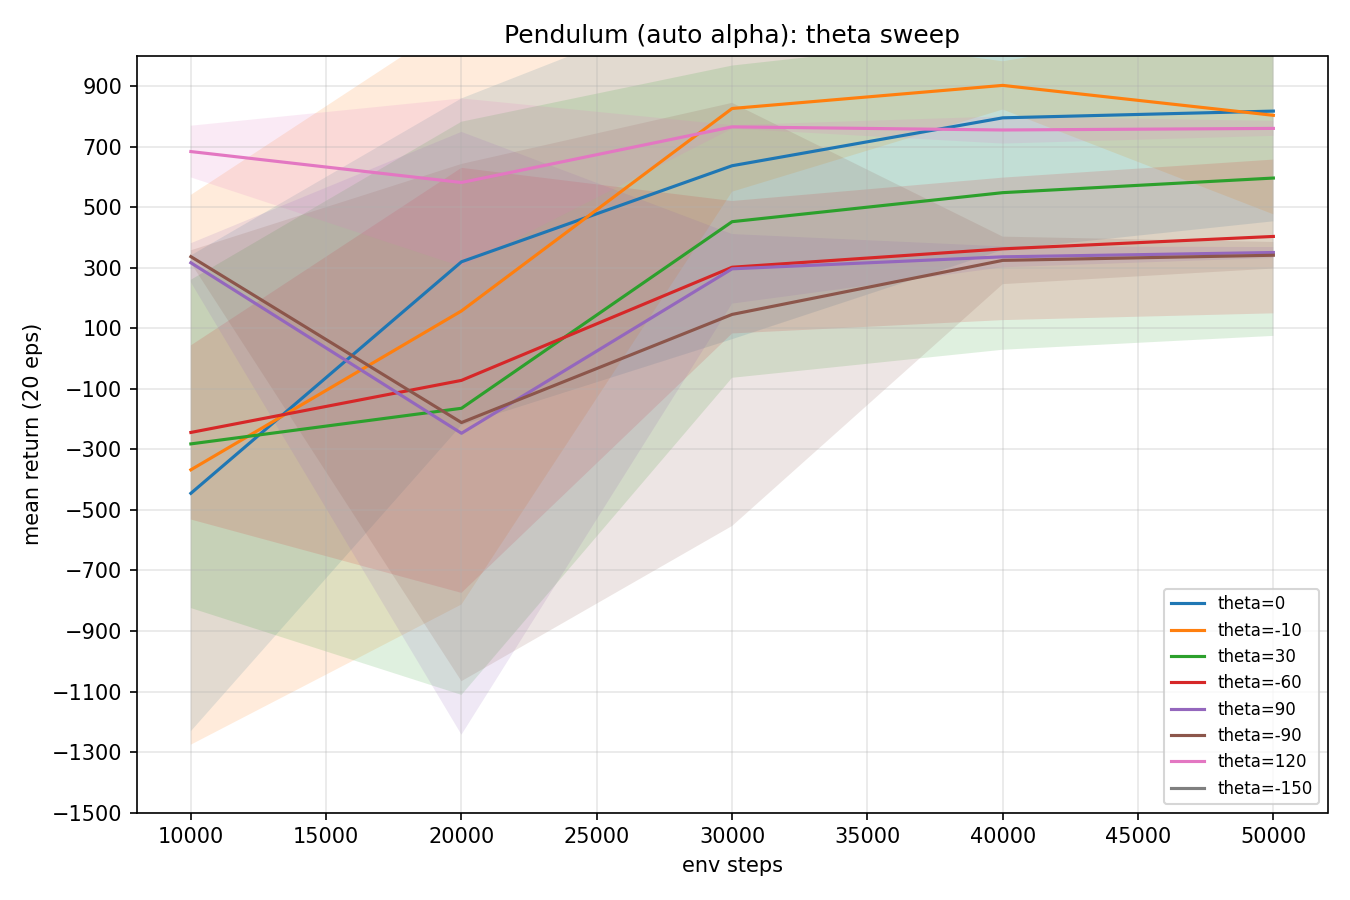
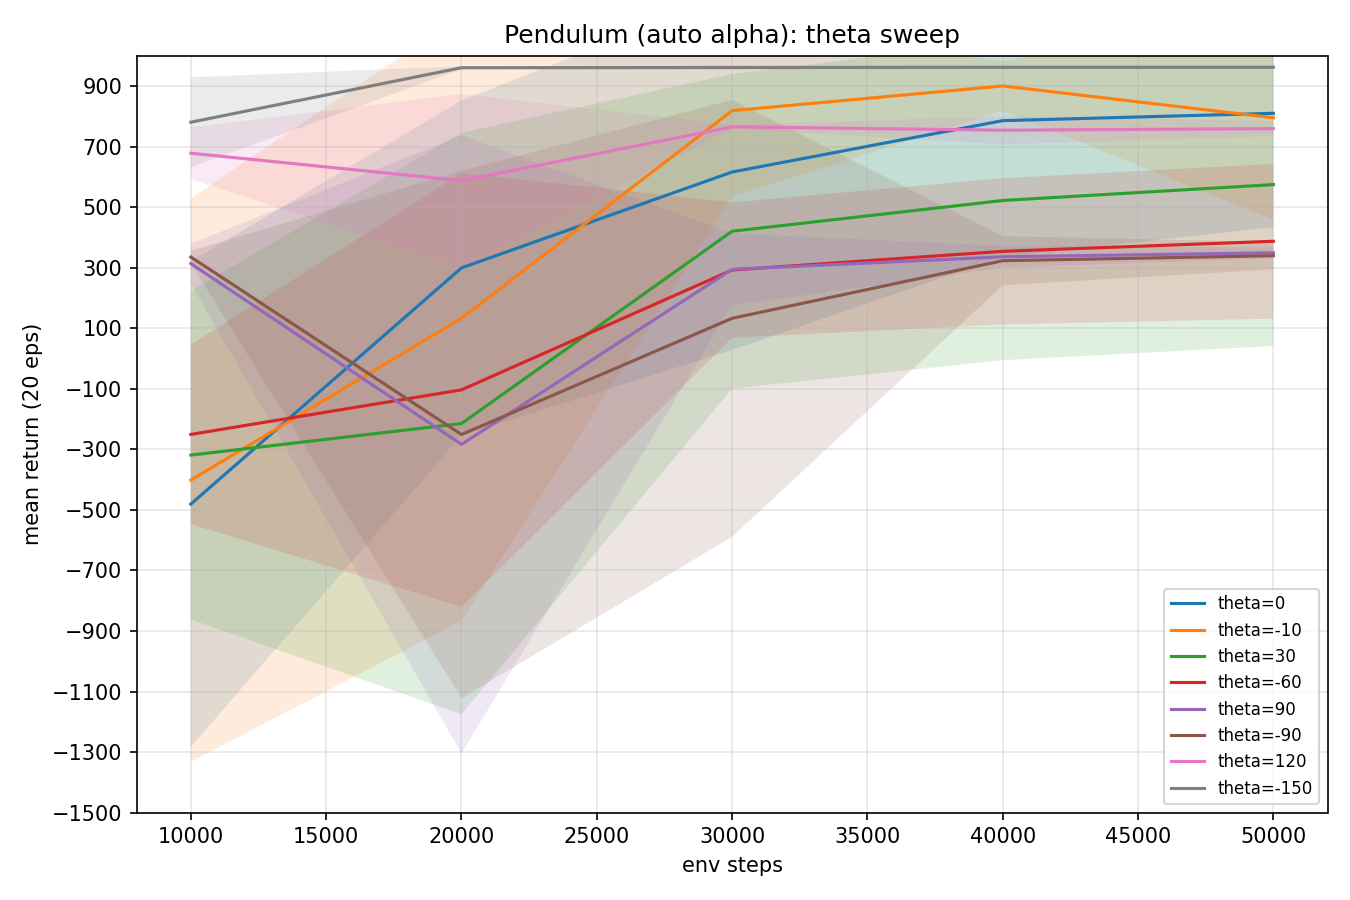
write up pendulum p1

diff --git a/Assignment 3/pendulum/pendulum_env.py b/Assignment 3/pendulum/pendulum_env.py
@@ -80,10 +80,11 @@ class PendulumTargetEnv:
         cos_th, sin_th, th_dot = float(obs[0]), float(obs[1]), float(obs[2])
         theta = math.atan2(sin_th, cos_th)
         diff = _wrap_to_pi(theta - self.theta_target)
-        reward = -(diff ** 2
-                   + 0.1 * th_dot ** 2
-                 + 0.001 * float(native_action[0]) ** 2)
-        reward *= self.reward_scale
+        reward_pos = math.cos(diff) 
+        reward_vel = -0.1 * (th_dot ** 2)
+        
+        # Total reward with scaling
+        reward = (reward_pos + reward_vel) * self.reward_scale
 
         self._steps += 1
         timeout = self._steps >= self._max_episode_steps

diff --git a/Assignment 3/pendulum/plot.py b/Assignment 3/pendulum/plot.py
@@ -118,8 +118,8 @@ def main():
     ax.set_xlabel('env steps')
     ax.set_ylabel('mean return (20 eps)')
 
-    ax.set_ylim(-1500, 1000)                      # <-- IMPORTANT
-    ax.set_yticks(np.arange(-1500, 1001, 200))    # tick spacing
+    ax.set_ylim(-2500, 0)                      # <-- IMPORTANT
+    ax.set_yticks(np.arange(-2500, 1, 200))    # tick spacing
 
     ax.grid(True, alpha=0.3)
     ax.legend(fontsize=8)

diff --git a/Assignment 3/write_up.md b/Assignment 3/write_up.md
@@ -1,0 +1,57 @@
+# 2.1 Pendulum
+
+1. Design and write appropriate reward function
+
+- An effective reward function for the modified Pendulum environment is based on the cosine of the angular error between the current angle ( \theta ) and the target angle ( \theta_{target} ). It can be defined as:
+
+[r_t = \cos(\theta_t - \theta_{target})]
+
+This reward is maximized when the pendulum is exactly at the target angle (i.e., ( \theta_t = \theta_{target} ), giving reward = 1), and decreases smoothly as the deviation increases. The cosine formulation naturally captures the circular nature of angles and avoids discontinuities at ( \pm 180^\circ ).
+
+To improve control behavior, a small penalty on angular velocity and control effort can be added:
+
+[r_t = \cos(\theta_t - \theta_{target}) - 0.1*\dot{\theta}_t^2]
+
+where ( \dot{\theta}_t ) is angular velocity 
+
+This reward encourages the agent to:
+
+1. Reach the desired angle (via cosine term),
+2. Stabilize at that position (penalizing velocity),
+
+Thus, the cosine-based reward is smooth, bounded, and well-suited for learning stable target alignment behavior.
+
+2. The code
+
+3. From the plot, the learning speed and final performance vary noticeably across target angles.
+
+**Learning speed:**
+
+* Targets like (theta = -150, 10, 0) learn the fastest. They show rapid improvement and reach high returns early (≈30K steps).
+* **Moderate angles** such as 30 and -60 learn more gradually, with steady but slower improvement.
+* **Harder targets** like 90 and -90 initially struggle (sharp drop around 20K steps), indicating exploration difficulty before recovering.
+* 120 shows relatively stable but slower learning compared to easier angles.
+
+**Final performance (quality of behavior):**
+
+* **Best performance** is achieved by ( theta = -150 ), which consistently attains the highest returns (~950+), indicating very stable alignment.
+* ( theta = -10) and (0) also achieve high returns (~800), showing good convergence to the target.
+* ( 120) reaches moderately high performance (~750) but with less improvement over time.
+* ( 30) achieves moderate returns (~550–600), indicating partial success.
+* **Lowest performance** is seen for ( -60), ( 90 ), and ( -90) (~300–400), suggesting difficulty in stabilizing at these angles.
+
+**Overall interpretation:**
+Learning is faster and more stable for targets closer to the natural upright/downward equilibrium or those easier to reach via pendulum dynamics. Targets such as ±90 are harder because they correspond to dynamically unstable points where gravity induces maximum deviation, requiring continuous and precise torque to counteract it. This leads to high sensitivity to errors, amplification of small deviations, sparse and difficult exploration trajectories, and noisy learning signals—collectively making both control and learning significantly more challenging.
+
+4. Optimal behavior consists of two aspects:
+
+1. Swing-up phase (energy shaping):
+The agent first injects energy to move the pendulum toward the target angle, often using oscillatory motion to build sufficient momentum.
+
+2. Approximate stabilization / limit-cycle behavior:
+For closer to stable points like theta = 0, -10,1-150 it stabilises and stays at some slight deviation from the target.
+For most larger angles, instead of perfectly holding the target angle, the agent often:
+- oscillates around the target, or
+- settles at a nearby easier-to-maintain angle (e.g., ~140° for a 120° target)
+
+This happens because for difficult targets, maintaining the exact angle requires continuous precise torque, so the agent prefers stable or quasi-stable behaviors (oscillations or shifted equilibria) that still yield reasonably high reward.
